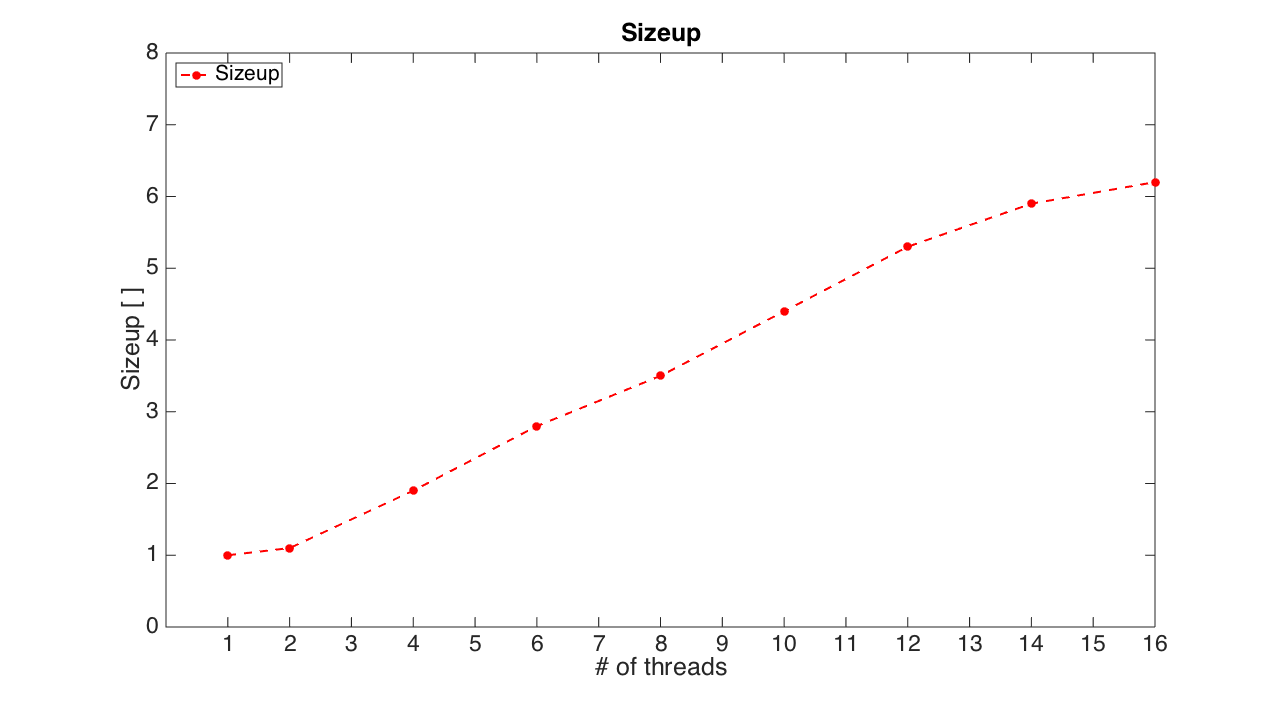
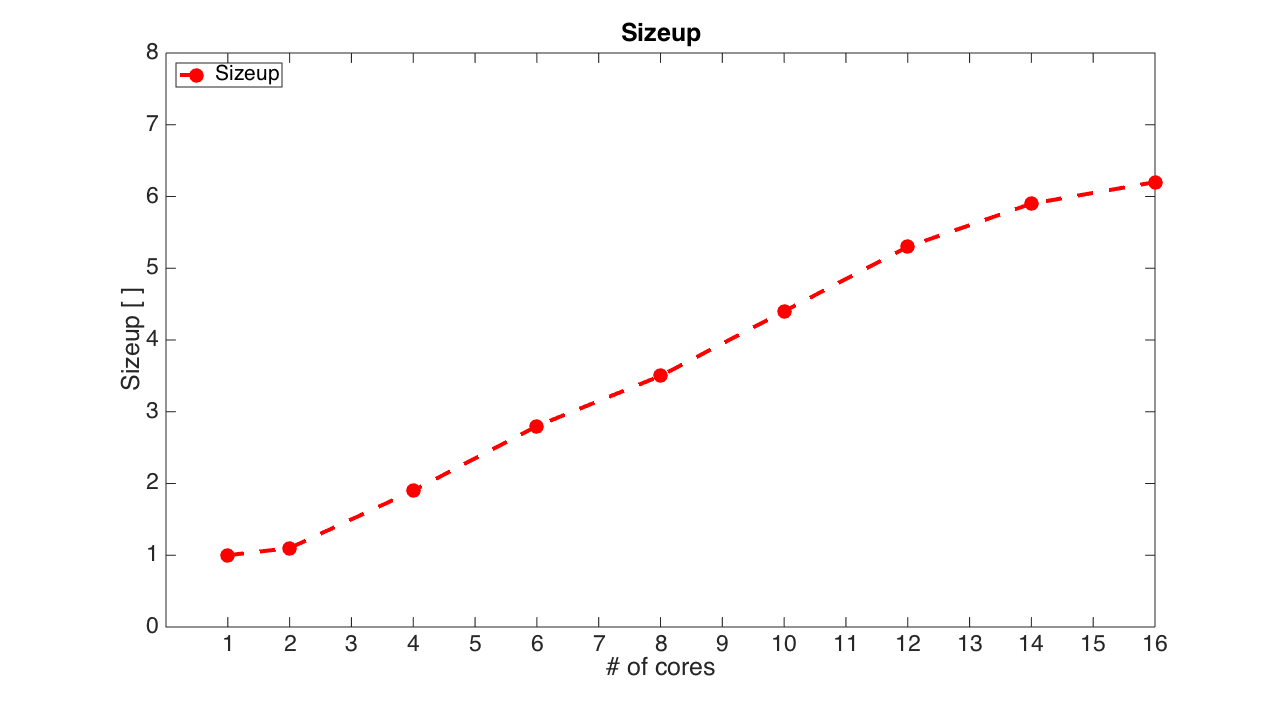
Report: discussion.

diff --git a/tex/report/introduction.tex b/tex/report/introduction.tex
@@ -4,6 +4,6 @@ Networks created by reinforced random walks are found in many complex systems, e
 
 Previous studies have shown how biological systems can be modeled by current-reinforced random walks. In current-reinforced random walks the probability for a particle to move to an other node depends on the flow of particles to that node, i.e. the current of particles. The basic idea of a current-reinforced random walk is to find the shortest path between a source and a sink for a given graph. This optimizes the path length for each individual path from the sources to the sinks. The algorithm for network creation by current-reinforced random walks used in \cite{Sumpter} converges to the shortest path through the graph \cite{Ito}. When utilizing non linear current-reinforced random walks a combination of path length and path maintenance is minimized. For example, ants may want to construct one big road rather than many small ones to easier keep needles and dirt of the road while not making each individual path that much longer. The actual function that is minimized in non linear cases is not yet known, a suggestion for this function is given in \cite{Sumpter}.
 
-An other example of where to find networks that can be modeled by current-reinforced random walks is in certain types of electrical systems. As presented both in \cite{Sumpter} and \cite{Doyle} the movement of the electrons in special types of current dependent conductors can be modeled by current-reinforced random walks. In these systems the conductivity in the conductors is proportional to the amount of electrons flowing through it, i.e. the current. This property enables the analogy to ant trail networks where pheromone concentration corresponds to the conductivity in the electrical network.
+An other example of where to find networks that can be modeled by current-reinforced random walks is in certain types of electrical systems. As presented both in \cite{Sumpter} and \cite{Doyle} the movement of the electrons in special types of current dependent conductors can be modeled by current-reinforced random walks. In these systems the conductivity in the conductors is proportional to the amount of electrons flowing through it, i.e. the current. This property enables the analogy to ant trail networks where pheromone concentration corresponds to the conductivity in the electrical network. What is unanimous for all these different networks is that the particles flowing within the network have no global information of the network itself, i.e. they can only know and affect their local environment. 
 
 When simulating these systems It may seem natural to implement the algorithms within a parallel setting due to the parallel nature of the systems themselves. However, previous simulations of current-reinforced random walks have been implemented serially in low performance environments \cite{Sumpter, Ma2012rib}. This is mainly because high performance parallel programming is not that simple as it may seem at first glance. Since all particles affect and react to their local environment synchronization is needed when moving particles around in the network, otherwise the computation would be corrupted. This project aims to be the first high performance parallel implementation of the current-reinforced random walk network creation presented in \cite{Sumpter}, utilizing high performance languages such as \texttt{C++} along with graph partitioning schemes such as METIS for better performance. The purpose is to decrease computation time and increase the problem size. Relevant measures for this is speedup and sizeup as a function of number of utilized parallel cores.

diff --git a/tex/report/discussion.tex b/tex/report/discussion.tex
@@ -1,15 +1,19 @@
 \section{Discussion}
 \label{sec:discussion}
-MPI
 
-Interpretation
+\begin{itemize}
+\item MPI
+\item Interpretation of result with graph is inverted resp. not inverted
+\item METIS weights, dynamic partitioning
+\item Slowdown for many threads on tussilago and vitsippa
+\item Tuning parameters for better performance plus strange phenomena when too high prod. rate
+\item Comment on speedup and sizeup
+\end{itemize}
 
-METIS weights, dynamic partitioning
+Judging by the results presented in Figure \ref{fig:speedup_sizeup} the parallelization gave significant speedup and sizeup. The resulting speedup is roughly $0.5$ times the number of cores, which is a good speedup. The sizeup is also good at almost $0.5$ times number of cores. The drop in speedup at $16$ cores can be due to that the servers \textit{vitsippa.it.uu.se} and \textit{tussilago.it.uu.se} are dual socket and therefore have non uniform memory access times. Since the servers each have $32$ cores using $16$ of them might result in conflicts with other processes running on the servers. If another process runs for just a moment one of the $16$ cores might have to wait. This increases the execution time since all cores need to synchronize. The probability for this phenomena to happen increases with the number of cores being used.
 
-Slowdown for many threads on gullviva
+The reason for the sizeup being less than the speed up is due to cache misses. Since the cache relatively decreases when the problem size is increased there will be more cache misses for bigger problems, hence the sizeup will not be ass great as the speedup. 
 
-
-
-To improve performance of the implementation, it may be useful to weight each node in the graph partitioning according to the number of neighbors that each node has, since the computational demand scales with the number of neighbors. It may also help to dynamically re-partition the graph, taking advantage of the fact that no computations need to be performed at nodes that do not contain any particles. These changes would increase the difference in number of nodes assigned to each core, which would be problematic, considering that the current implementation assigns an equal number of nodes to each core and there may not be a simple way to assign a different number of nodes to each core using OpenMP.
+To improve performance of the implementation, it may be useful to weight each node in the graph partitioning according to the number of neighbors that each node has, since the computational demand scales with the number of neighbors. It may also help to dynamically re-partition the graph, taking advantage of the fact that no computations need to be performed at nodes that do not contain any particles. These changes would increase the difference in number of nodes assigned to each core, which would be problematic, considering that the current implementation assigns an equal number of nodes to each core and there may not be a simple way to assign a different number of nodes to each core using OpenMP. This problem could be solved by utilizing POSIX Threads (Pthreads) instead of OpenMP. By using Pthreads the programmer is given more control over the specific work that is performed by each core. In this way nodes could be transferred between cores dynamically while still using a shared memory model.
 
 A natural progression of this work is to introduce communication between cores that do not share memory, e.g. via message passing. This would likely only provide performance improvements for large problems, since it relies on higher-latency communication.

diff --git a/tex/report/result.tex b/tex/report/result.tex
@@ -25,7 +25,7 @@ A homogeneous grid containing $1024$ nodes where each node has been perturbed a 
 \includegraphics[width=\textwidth]{{img/nodes_sources_M10_mu1.5}.png}
 \caption{The simulated solution when $\mu=1.5$.}
 \end{subfigure}
-\caption{Figure shows the solutions found by the simulation on a homogeneous grid containing $1024$ nodes where each node has been perturbed a small amount. The pink lines show the conductivity along each edge, with the thickness of the line is proportional to the amount of conductivity. The shortest path from each source to each sinks has been marked with a thin white line. The parameters used are $q = 10^{-4},\lambda = 10^{-3},$ and $D_{min}=5 \cdot 10^{-2}$. In this graph there are in total one sink and $20$ sources. Each source (red) produces 1000 particles each time unit and all sinks (blue) can together remove as many particles as are produced each time unit (evenly divided between the sinks).}
+\caption{Figure shows the solutions found by the simulation on a homogeneous grid containing $1024$ nodes where each node has been perturbed a small amount. The pink lines show the conductivity along each edge, with the thickness of the line is proportional to the amount of conductivity. The shortest path found with Dijkstra's algorithm from each source to each sinks has been marked with a thin white line \cite{Dijkstra}. The parameters used are $q = 10^{-4},\lambda = 10^{-3},$ and $D_{min}=5 \cdot 10^{-2}$. In this graph there are in total one sink and $20$ sources. Each source (red) produces 1000 particles each time unit and all sinks (blue) can together remove as many particles as are produced each time unit (evenly divided between the sinks).}
 \label{fig:sources}
 \end{figure}
 
@@ -50,7 +50,7 @@ A homogeneous grid containing $1024$ nodes where each node has been perturbed a 
 \includegraphics[width=\textwidth]{{img/nodes_sinks_M10_mu1.5}.png}
 \caption{The simulated solution when $\mu=1.5$.}
 \end{subfigure}
-\caption{Figure shows the solutions found by the simulation on a homogeneous grid containing $1024$ nodes where each node has been perturbed a small amount. The pink lines show the conductivity along each edge, with the thickness of the line is proportional to the amount of conductivity. The shortest path from each source to each sinks has been marked with a thin white line. The parameters used are $q = 10^{-4},\lambda = 10^{-3},$ and $D_{min}=5 \cdot 10^{-2}$. In this graph there are in total one source and $20$ sinks. Each source (red) produces 1000 particles each time unit and all sinks (blue) can together remove as many particles as are produced each time unit (evenly divided between the sinks).}
+\caption{Figure shows the solutions found by the simulation on a homogeneous grid containing $1024$ nodes where each node has been perturbed a small amount. The pink lines show the conductivity along each edge, with the thickness of the line is proportional to the amount of conductivity. The shortest path found with Dijkstra's algorithm from each source to each sinks has been marked with a thin white line \cite{Dijkstra}. The parameters used are $q = 10^{-4},\lambda = 10^{-3},$ and $D_{min}=5 \cdot 10^{-2}$. In this graph there are in total one source and $20$ sinks. Each source (red) produces 1000 particles each time unit and all sinks (blue) can together remove as many particles as are produced each time unit (evenly divided between the sinks).}
 \label{fig:sinks}
 \end{figure}
 

diff --git a/tex/report/abstract.tex b/tex/report/abstract.tex
@@ -5,5 +5,4 @@ The occurrence of reinforced random walks are present in many complex systems, e
 
 In the particular underlying current-reinforced random walk for this paper the probability for a particle to move to an other node depends on the flow of particles to that node, i.e. the current of particles. The mathematical modeling is based on the research presented in \cite{Sumpter}. The basic idea of a current-reinforced random walk is to find the shortest path between a source and a sink for a given graph. This optimizes the path length for each individual path from the sources to the sinks. When utilizing non linear current-reinforced random walks a combination of path length and path maintenance is optimized. For example, ants may want to construct one big road rather than many small ones to easier keep needles and dirt of the road while not making each individual path that much longer.
 
-
-The implementation of these current-reinforced random walks is done in \texttt{C++} with the library OpenMp for parallelism. In order to get better performance the nodes are numbered and ordered with graph partitioning schemes. This ensures better memory access and less communication between cores when running in parallel. 
+The implementation of these current-reinforced random walks is done in \texttt{C++} with the library OpenMp for parallelism. In order to get better performance the nodes are numbered and ordered with graph partitioning schemes. This ensures better memory access and less communication between cores when running in parallel. Measurements of speedup and sizeup showed that the parallel implementation significantly increased performance. 

diff --git a/matlab/speedup.m b/matlab/speedup.m
@@ -34,14 +34,14 @@ col={'.--b','.--r','.--g','.--m','.--c','.--y','.--k'};
 
 %name = {'problem size: '};
 %str=sprintf('%d x %d matrices',sizes(i),sizes(i));
-plot(unique_data(:,1), speedups,col{1},'markersize',30,'linewidth',2);
+plot(unique_data(:,1), speedups,col{1},'markersize',50,'linewidth',4);
 %s(i)=strcat(name,str);
 
 legend('Speedup', 'Location', 'NorthWest');
 set(gca,'XTick',nThreads);
 set(gca,'FontSize',23) %set scale fontsize
 title('Speedup')
-xlabel('# of threads')
+xlabel('# of cores')
 ylabel('Speedup [ ]')
 set(gca,'XTick',nThreads);
 ylim([0 nThreads(end)/2])

diff --git a/matlab/sizeup.m b/matlab/sizeup.m
@@ -33,14 +33,14 @@ col={'.--b','.--r','.--g','.--m','.--c','.--y','.--k'};
 
 %name = {'problem size: '};
 %str=sprintf('%d x %d matrices',sizes(i),sizes(i));
-plot(unique_data(:,1), sizeups,col{2},'markersize',30,'linewidth',2);
+plot(unique_data(:,1), sizeups,col{2},'markersize',50,'linewidth',4);
 %s(i)=strcat(name,str);
 
 legend('Sizeup', 'Location', 'NorthWest');
 set(gca,'XTick',nThreads);
 set(gca,'FontSize',23) %set scale fontsize
 title('Sizeup')
-xlabel('# of threads')
+xlabel('# of cores')
 ylabel('Sizeup [ ]')
 set(gca,'XTick',nThreads);
 ylim([0 nThreads(end)/2])
